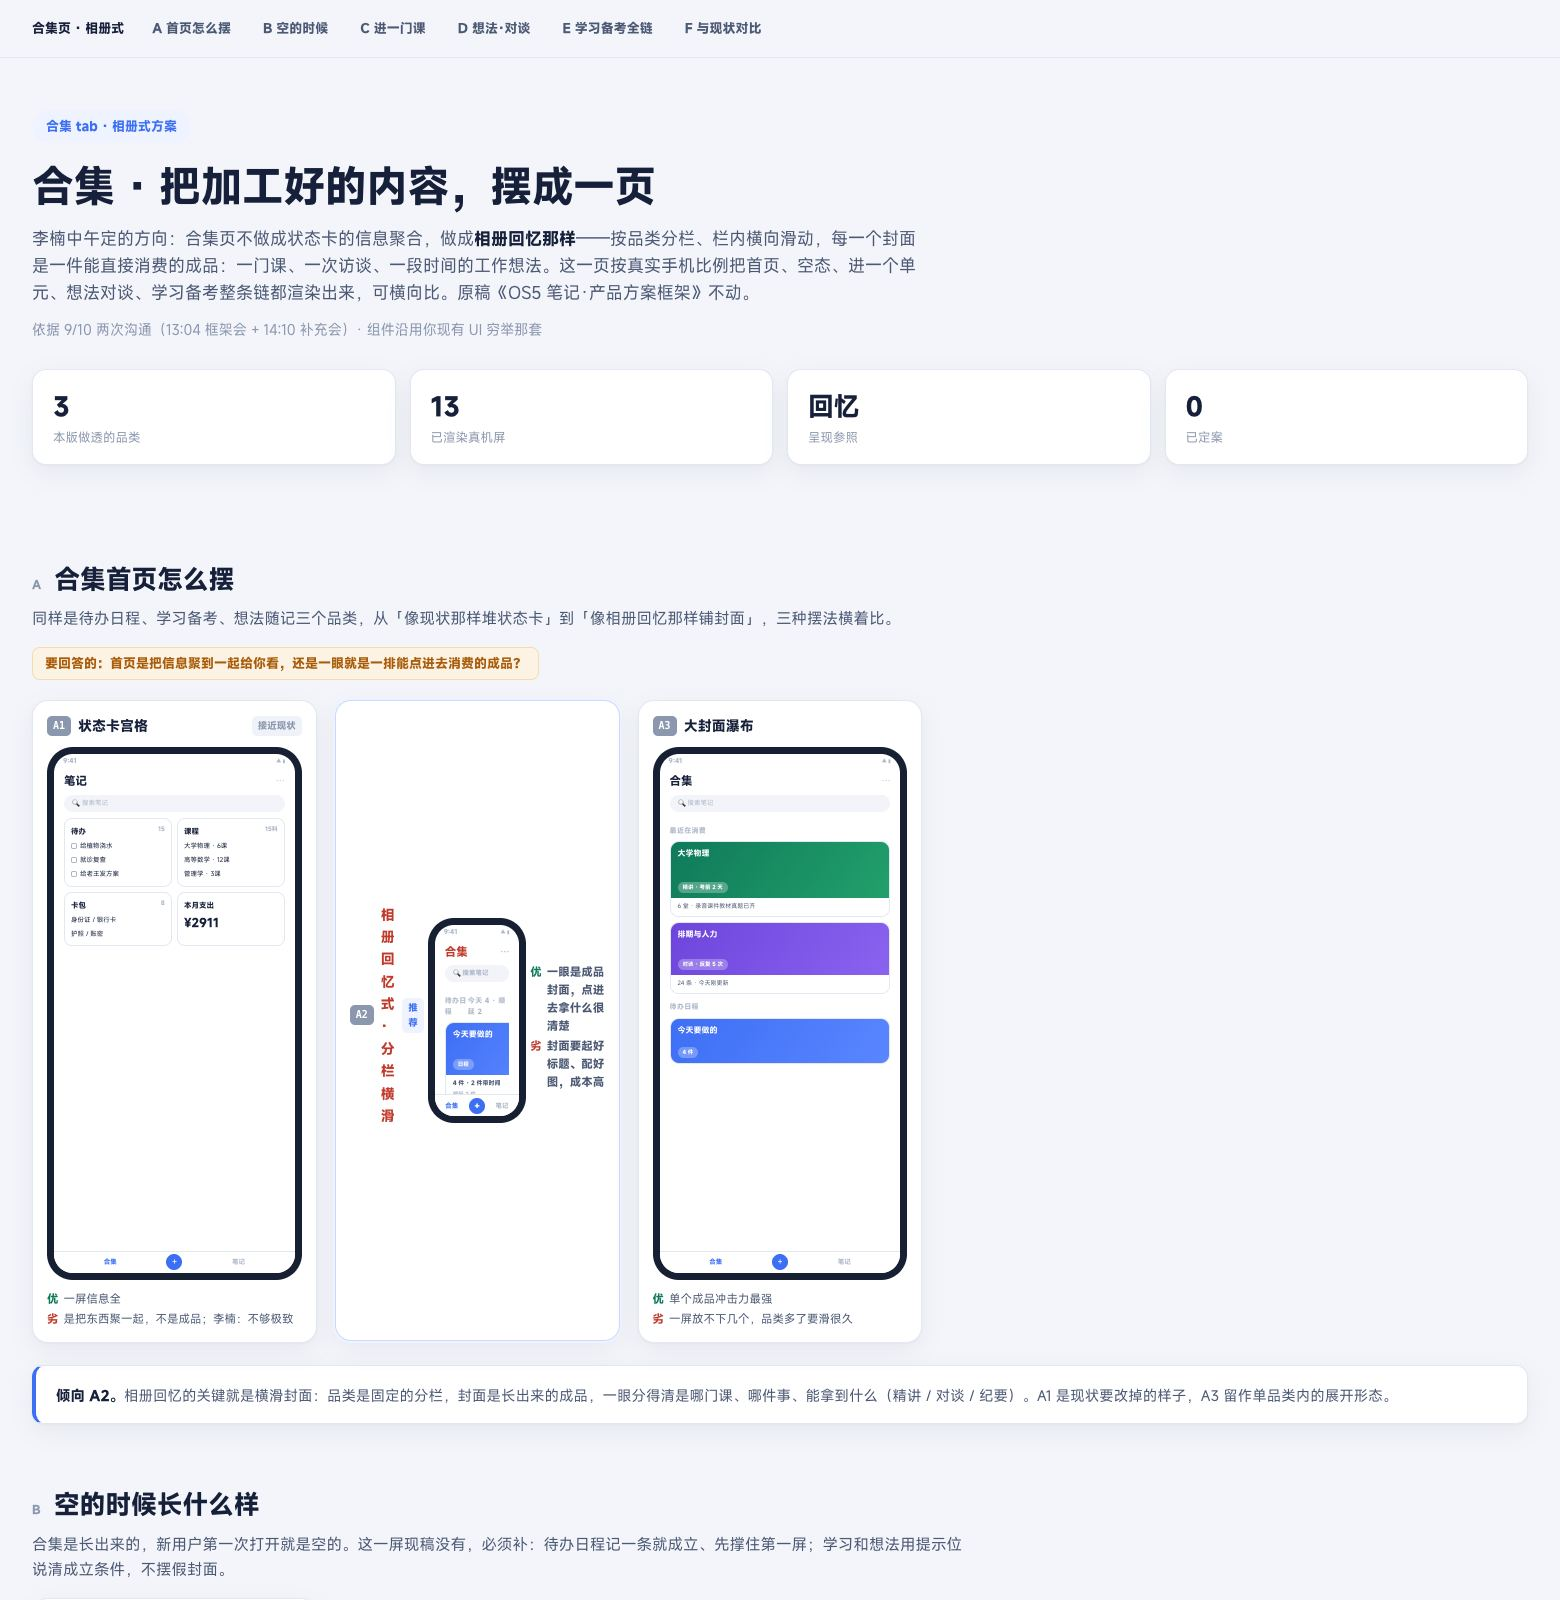
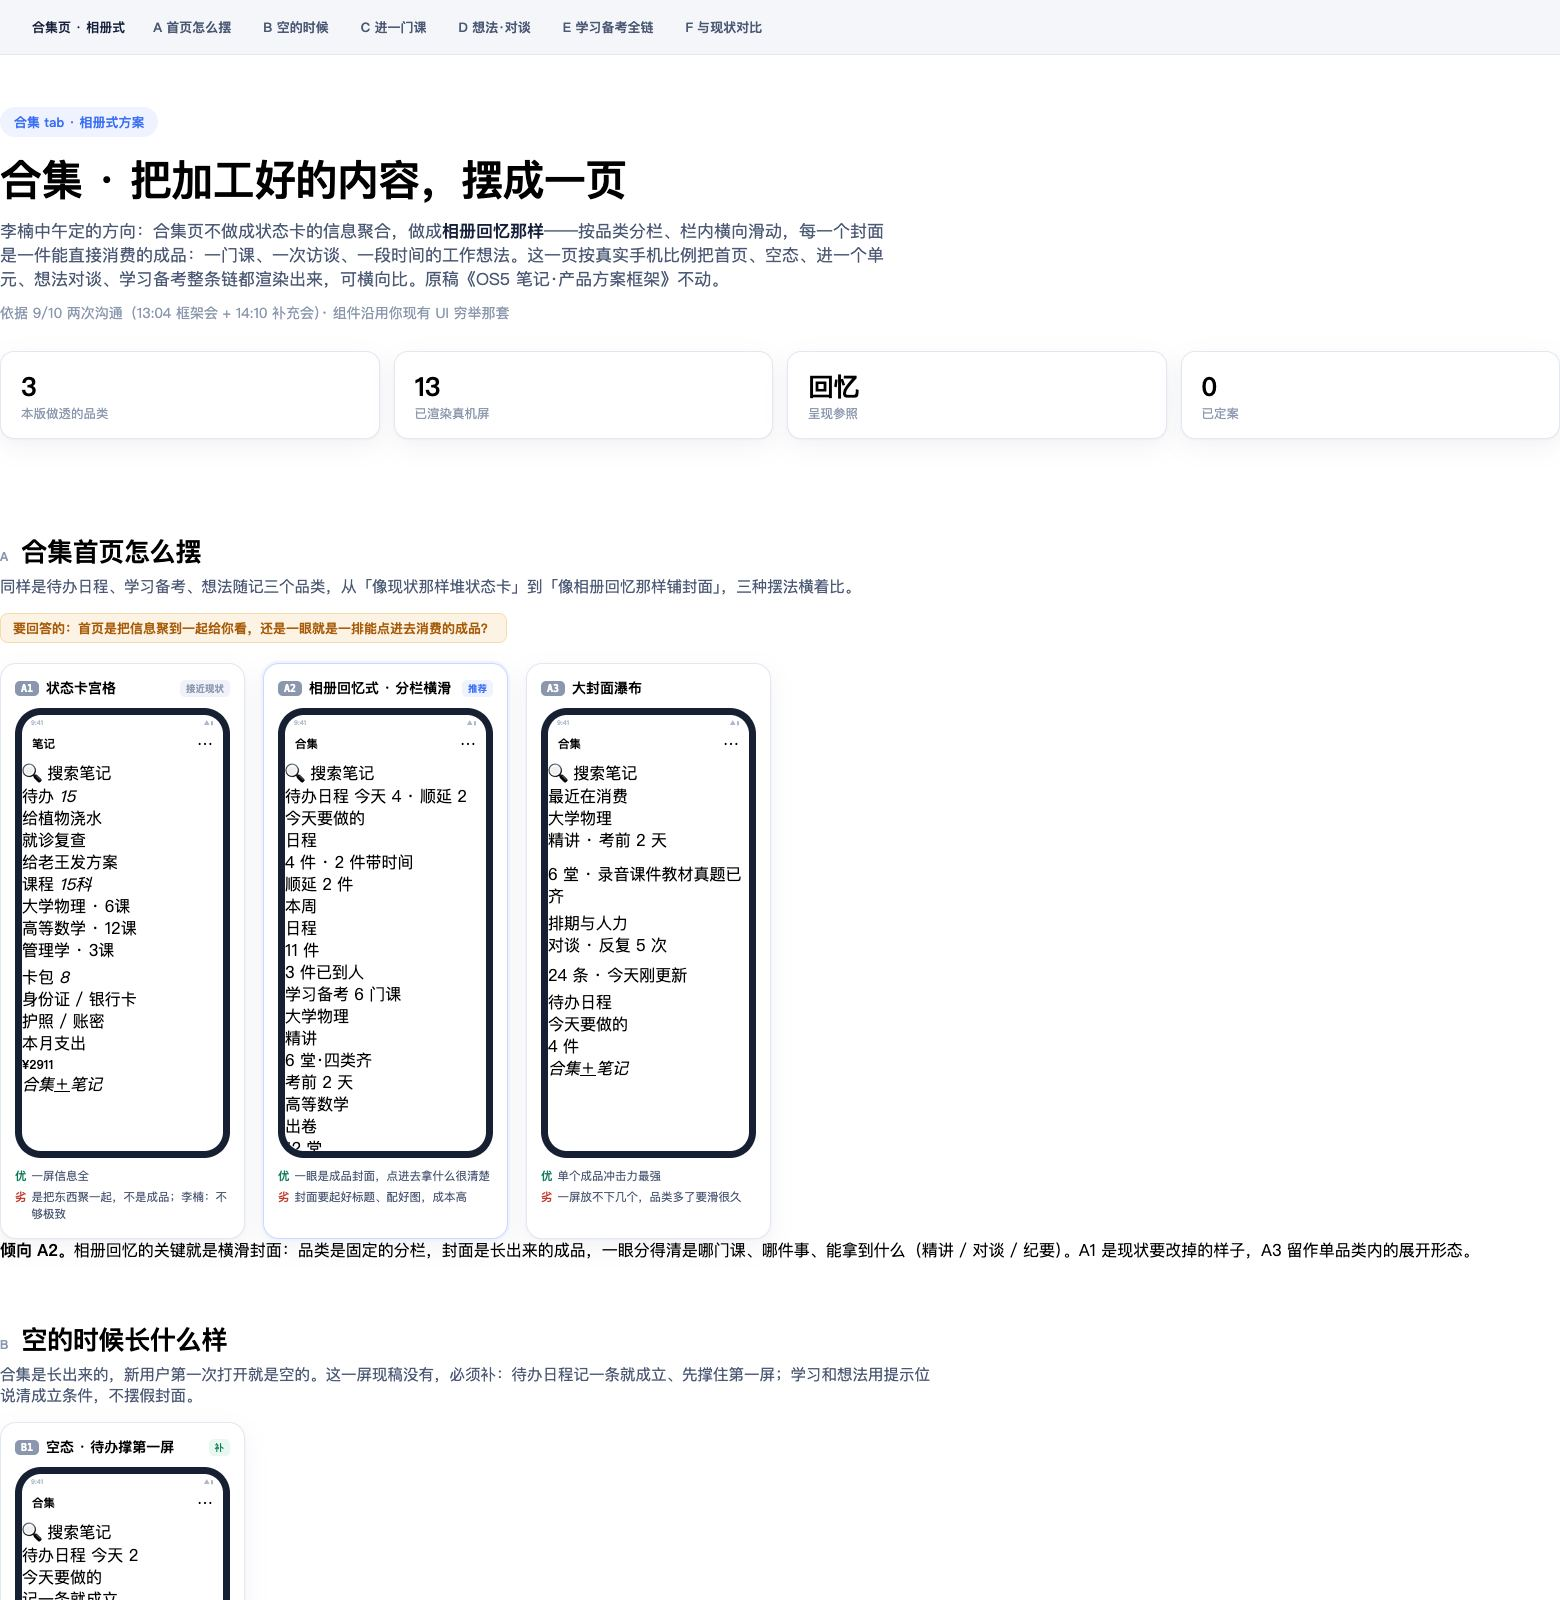
fix: A2 card collapse (min-width:0 on strips)

diff --git a/demos/os5-collection-album.html b/demos/os5-collection-album.html
@@ -41,11 +41,11 @@ h2{font-size:26px;font-weight:700;letter-spacing:-.3px}
 .lead{font-size:15.5px;color:var(--ink2);max-width:940px;margin-bottom:16px}
 .q{display:inline-block;font-size:13px;font-weight:600;color:var(--am);background:var(--amS);border:1px solid var(--amL);padding:5px 12px;border-radius:8px;margin-bottom:20px}
 .gal{display:grid;grid-template-columns:repeat(auto-fill,minmax(236px,1fr));gap:18px}
-.vv{background:var(--card);border:1px solid var(--line);border-radius:16px;padding:14px;box-shadow:var(--sh)}
+.vv{background:var(--card);border:1px solid var(--line);border-radius:16px;padding:14px;box-shadow:var(--sh);min-width:0}
 .vv.rec{border-color:var(--blL);box-shadow:0 0 0 2px var(--blS),var(--sh)}
-.vv .hd{display:flex;align-items:center;gap:7px;margin-bottom:10px}
+.vv .hd{display:flex;align-items:center;gap:7px;margin-bottom:10px;min-width:0}
 .vv .id{font-family:ui-monospace,Menlo,monospace;font-size:10px;font-weight:700;color:#fff;background:var(--ink3);padding:2px 6px;border-radius:5px}
-.vv .nm{font-size:14px;font-weight:700}
+.vv .nm{font-size:14px;font-weight:700;white-space:nowrap;overflow:hidden;text-overflow:ellipsis;min-width:0}
 .vv .cur{font-size:9.5px;font-weight:700;color:var(--ink3);background:var(--line2);padding:2px 6px;border-radius:5px;margin-left:auto}
 .vv .cur.g{color:var(--gn);background:var(--gnS)}
 .vv .cur.b{color:var(--bl);background:var(--blS)}
@@ -63,13 +63,13 @@ h2{font-size:26px;font-weight:700;letter-spacing:-.3px}
 .ni{font-size:9px;color:var(--ink4)}
 .ni .ai{display:inline-block;width:11px;height:11px;border-radius:50%;background:conic-gradient(from 90deg,#3D5BFD,#FFA1A1,#9289FF);vertical-align:-2px}
 .sr{margin:0 10px 6px;height:17px;border-radius:9px;background:#F2F4F9;display:flex;align-items:center;justify-content:space-between;padding:0 8px;font-size:6.5px;color:var(--ink4)}
-.bd{padding:0 10px;overflow:hidden;height:calc(100% - 43px)}
+.bd{padding:0 10px;overflow:hidden;height:calc(100% - 43px);min-width:0}
 .bd.tb{height:calc(100% - 63px)}
 .hh{font-size:7px;font-weight:700;color:var(--ink4);letter-spacing:.3px;margin:7px 0 5px;display:flex;justify-content:space-between}
 .hh span{color:var(--ink4);font-weight:600}
 /* 分栏横滑封面（回忆式） */
-.strip{margin-bottom:8px}
-.hs{display:flex;gap:6px;overflow:hidden}
+.strip{margin-bottom:8px;min-width:0}
+.hs{display:flex;gap:6px;overflow:hidden;min-width:0}
 .cova{flex:none;width:88px;border-radius:9px;overflow:hidden;border:1px solid var(--line)}
 .cova .cv{height:52px;padding:6px 7px;position:relative;color:#fff}
 .cova .cv .n{font-size:8px;font-weight:700;line-height:1.25}
